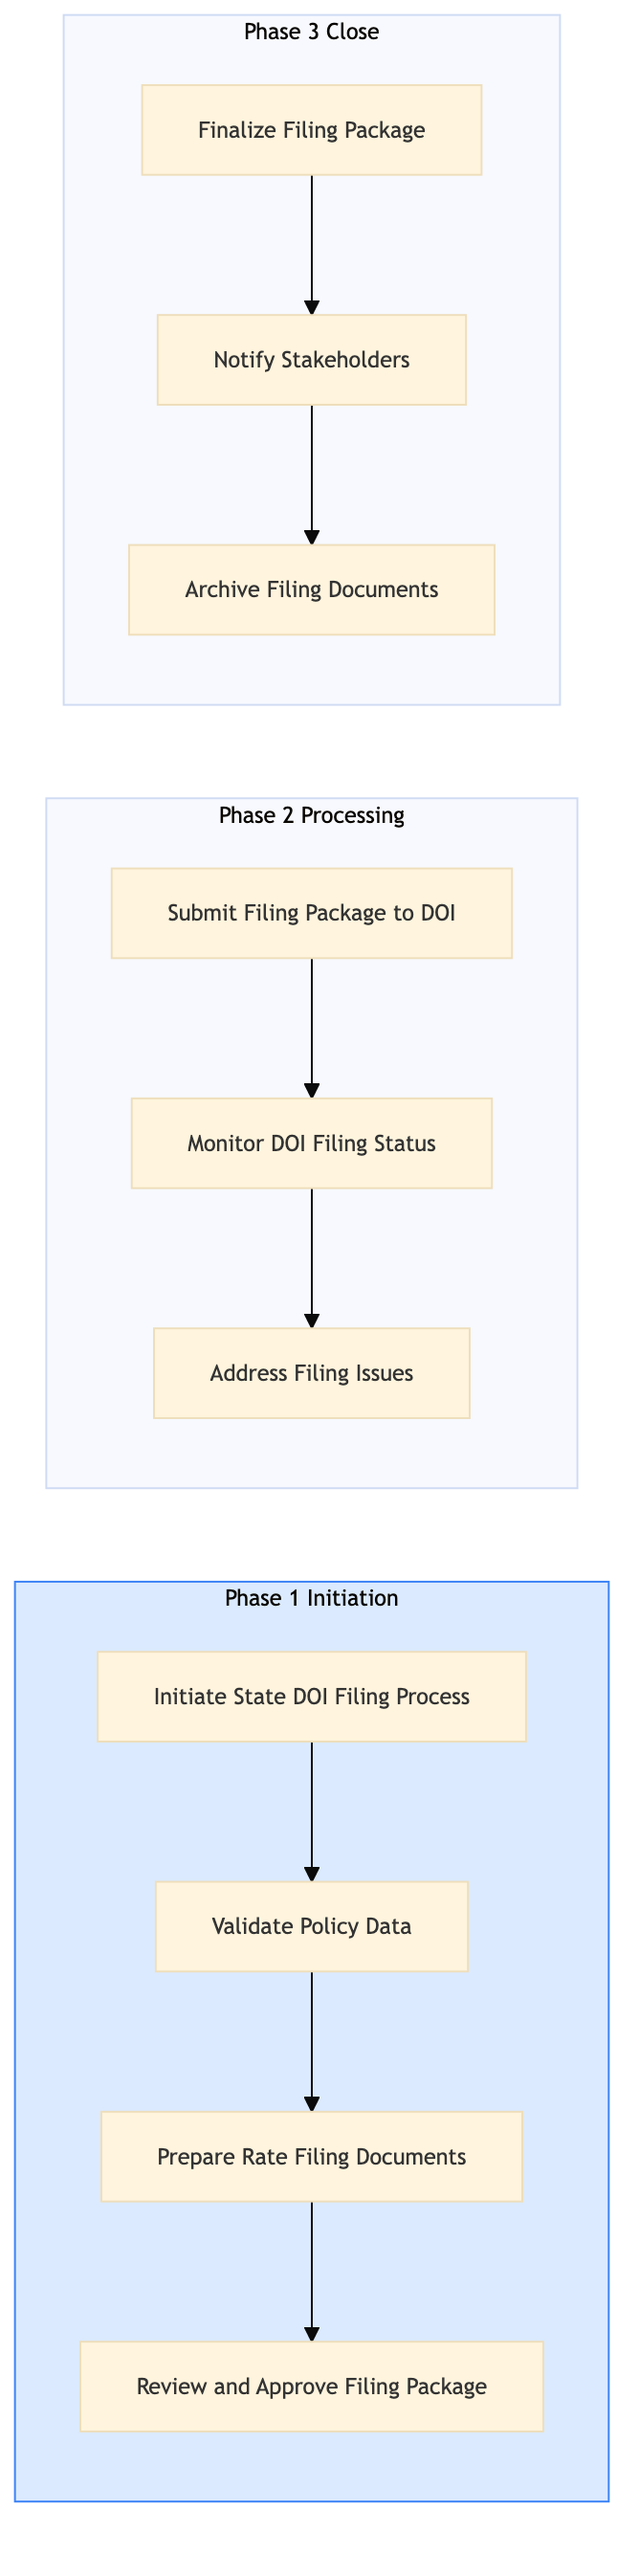
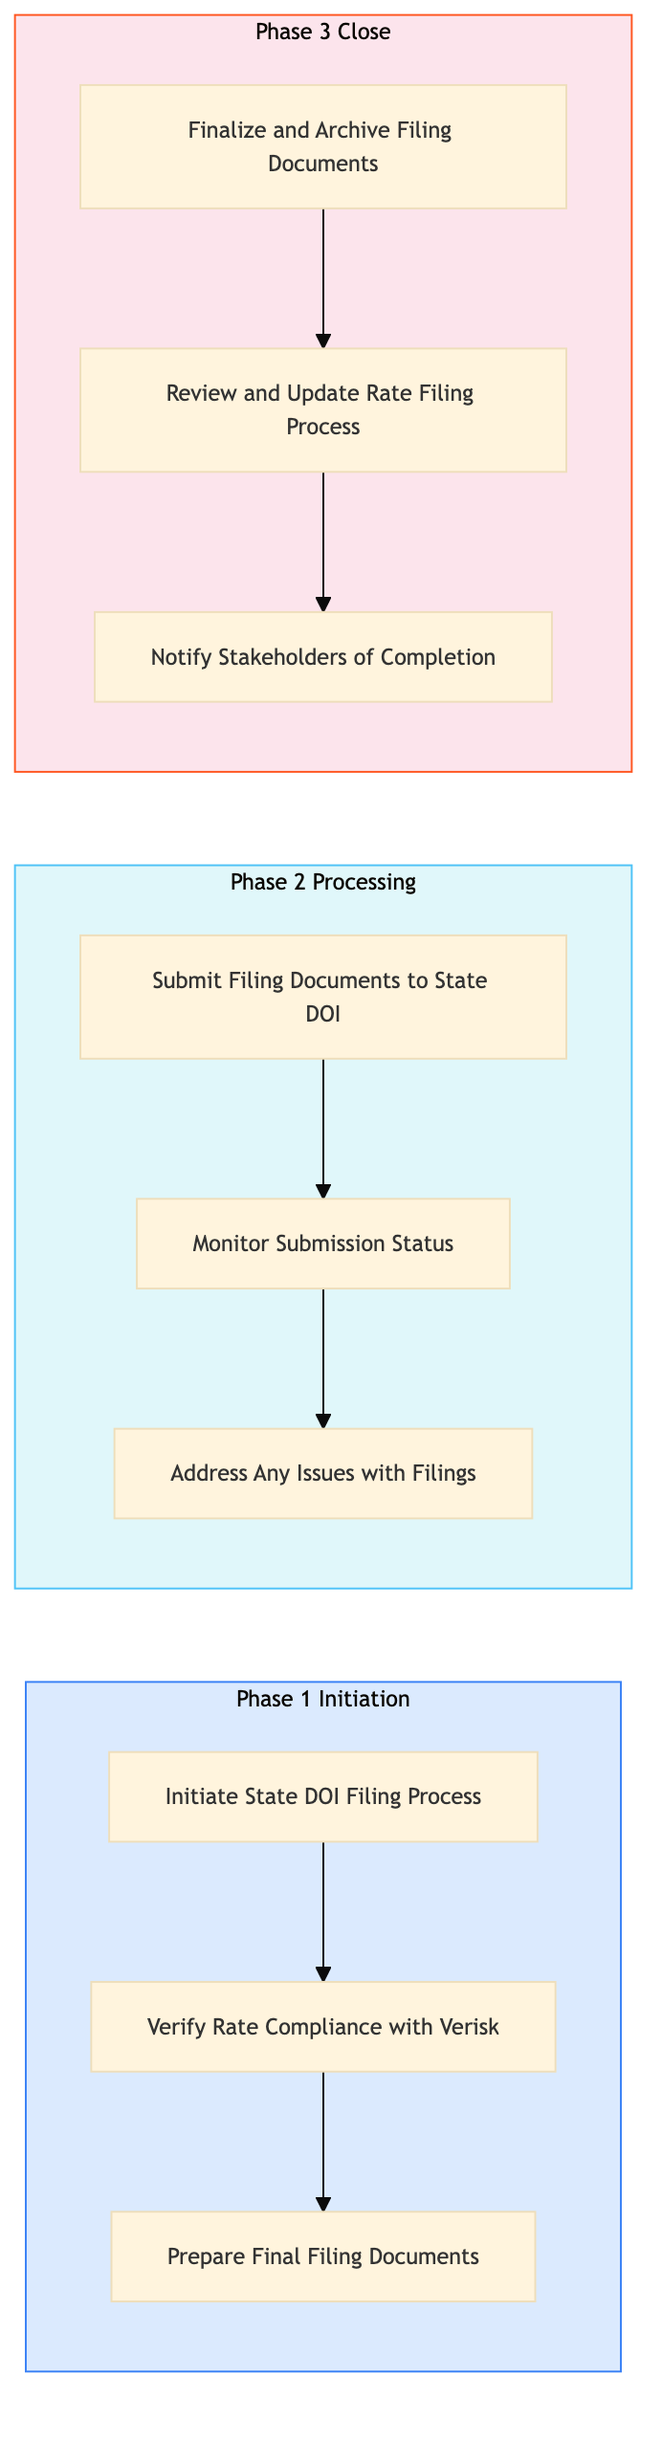
feat: add AAA-IN-PO-05 — State DOI Filing and Rate Filing Compliance

diff --git a/aaa-insurance/policy-administration/aaa-in-po-05.html b/aaa-insurance/policy-administration/aaa-in-po-05.html
@@ -23,40 +23,16 @@
     <div class="nav-l2-group">
       <a class="nav-l2-title" href="../../shared-membership/membership-enrolment/index.html">Membership Enrolment & Sales</a>
       <div class="nav-l3-list">
-        <a class="nav-l3" href="../../shared-membership/membership-enrolment/shared-mb-en-01.html">SHARED-MB-EN-01 &mdash; New Member Walk-In Enrolment (Branch)</a>
-        <a class="nav-l3" href="../../shared-membership/membership-enrolment/shared-mb-en-02.html">SHARED-MB-EN-02 &mdash; Online Membership Self-Enrolment (Web/Ap</a>
-        <a class="nav-l3" href="../../shared-membership/membership-enrolment/shared-mb-en-03.html">SHARED-MB-EN-03 &mdash; Phone Enrolment via Contact Centre</a>
-        <a class="nav-l3" href="../../shared-membership/membership-enrolment/shared-mb-en-04.html">SHARED-MB-EN-04 &mdash; Affiliate and Employer Group Enrolment</a>
-        <a class="nav-l3" href="../../shared-membership/membership-enrolment/shared-mb-en-05.html">SHARED-MB-EN-05 &mdash; Membership Tier Selection and Upsell</a>
-        <a class="nav-l3" href="../../shared-membership/membership-enrolment/shared-mb-en-06.html">SHARED-MB-EN-06 &mdash; Payment Processing and First-Year Billin</a>
-        <a class="nav-l3" href="../../shared-membership/membership-enrolment/shared-mb-en-07.html">SHARED-MB-EN-07 &mdash; Welcome Kit and Digital Card Issuance</a>
-        <a class="nav-l3" href="../../shared-membership/membership-enrolment/shared-mb-en-08.html">SHARED-MB-EN-08 &mdash; Duplicate Member Detection and Merge</a>
       </div>
     </div>
     <div class="nav-l2-group">
       <a class="nav-l2-title" href="../../shared-membership/membership-renewal/index.html">Membership Renewal & Retention</a>
       <div class="nav-l3-list">
-        <a class="nav-l3" href="../../shared-membership/membership-renewal/shared-mb-rn-01.html">SHARED-MB-RN-01 &mdash; Annual Renewal Notice Generation and Dis</a>
-        <a class="nav-l3" href="../../shared-membership/membership-renewal/shared-mb-rn-02.html">SHARED-MB-RN-02 &mdash; Auto-Renewal Processing (Credit Card on </a>
-        <a class="nav-l3" href="../../shared-membership/membership-renewal/shared-mb-rn-03.html">SHARED-MB-RN-03 &mdash; Lapsed Member Reinstatement Campaign</a>
-        <a class="nav-l3" href="../../shared-membership/membership-renewal/shared-mb-rn-04.html">SHARED-MB-RN-04 &mdash; Membership Upgrade and Tier Change Proce</a>
-        <a class="nav-l3" href="../../shared-membership/membership-renewal/shared-mb-rn-05.html">SHARED-MB-RN-05 &mdash; Associate and Household Member Add-On Pr</a>
-        <a class="nav-l3" href="../../shared-membership/membership-renewal/shared-mb-rn-06.html">SHARED-MB-RN-06 &mdash; Cancellation Request Handling and Save O</a>
-        <a class="nav-l3" href="../../shared-membership/membership-renewal/shared-mb-rn-07.html">SHARED-MB-RN-07 &mdash; Renewal Rate Review and Pricing Update</a>
-        <a class="nav-l3" href="../../shared-membership/membership-renewal/shared-mb-rn-08.html">SHARED-MB-RN-08 &mdash; Membership Winback Campaign (12-36 Month</a>
       </div>
     </div>
     <div class="nav-l2-group">
       <a class="nav-l2-title" href="../../shared-membership/member-services/index.html">Member Services & Benefits</a>
       <div class="nav-l3-list">
-        <a class="nav-l3" href="../../shared-membership/member-services/shared-mb-sv-01.html">SHARED-MB-SV-01 &mdash; Member Discount Partner Redemption</a>
-        <a class="nav-l3" href="../../shared-membership/member-services/shared-mb-sv-02.html">SHARED-MB-SV-02 &mdash; Passport Photo Service Delivery (Branch)</a>
-        <a class="nav-l3" href="../../shared-membership/member-services/shared-mb-sv-03.html">SHARED-MB-SV-03 &mdash; International Driving Permit (IDP) Proce</a>
-        <a class="nav-l3" href="../../shared-membership/member-services/shared-mb-sv-04.html">SHARED-MB-SV-04 &mdash; Notary and Document Authentication Servi</a>
-        <a class="nav-l3" href="../../shared-membership/member-services/shared-mb-sv-05.html">SHARED-MB-SV-05 &mdash; Member Portal Profile and Preferences Ma</a>
-        <a class="nav-l3" href="../../shared-membership/member-services/shared-mb-sv-06.html">SHARED-MB-SV-06 &mdash; Lost and Stolen Membership Card Replacem</a>
-        <a class="nav-l3" href="../../shared-membership/member-services/shared-mb-sv-07.html">SHARED-MB-SV-07 &mdash; Member Data Privacy Request (CCPA and PI</a>
-        <a class="nav-l3" href="../../shared-membership/member-services/shared-mb-sv-08.html">SHARED-MB-SV-08 &mdash; Member Satisfaction Survey and NPS Track</a>
       </div>
     </div>
   </div>
@@ -292,7 +268,7 @@
           <span class="pid-badge org-badge-aaa">AAA</span>
           AAA-IN-PO-05 &mdash; State DOI Filing and Rate Filing Compliance
         </h1>
-        <p>This process ensures that AAA Northeast complies with state Department of Insurance (DOI) regulations and rate filings. It involves collecting, validating, and submitting necessary data to the DOI using various systems.</p>
+        <p>This process ensures that AAA Northeast complies with state DOI filing and rate filing requirements using Guidewire Cloud, Sabre, Verisk, Salesforce, and USD systems.</p>
       </div>
 
       <!-- BPMN Diagram -->
@@ -318,10 +294,10 @@
             <tr><th>L1 Domain</th><td>AAA Insurance</td></tr>
             <tr><th>L2 Process</th><td>Policy Administration</td></tr>
             <tr><th>L3 Name</th><td>State DOI Filing and Rate Filing Compliance</td></tr>
-            <tr><th>Trigger</th><td>Annual renewal cycle or changes in insurance rates</td></tr>
-            <tr><th>Outcome</th><td>Successful submission of required documents and compliance with state DOI regulations, ensuring AAA Northeast maintains its license and rates are approved.</td></tr>
-            <tr><th>Org Notes</th><td>AAA Northeast focuses on cloud-based solutions like Guidewire Cloud for policy administration, whereas CAA SCO uses a mix of on-premise and cloud systems. Additionally, AAA Northeast integrates with Sabre GDS for travel services, while CAA SCO uses Galileo GDS.</td></tr>
-            <tr><th>Systems</th><td><span class="sys-tag guidewire">Guidewire PolicyCenter</span> <span class="sys-tag verisk">Verisk ISO rating</span> <span class="sys-tag salesforce">Salesforce</span> <span class="sys-tag sabre">Sabre GDS</span> <span class="sys-tag snowflake">Snowflake</span></td></tr>
+            <tr><th>Trigger</th><td>Annual renewal or policy change requiring new rates or filings</td></tr>
+            <tr><th>Outcome</th><td>Successful submission of all required state DOI filings and rate filings within regulatory deadlines.</td></tr>
+            <tr><th>Org Notes</th><td>AAA Northeast has specific processes for handling state DOI filings that differ from CAA due to regional regulations and local market requirements.</td></tr>
+            <tr><th>Systems</th><td><span class="sys-tag guidewire">Guidewire PolicyCenter</span> <span class="sys-tag verisk">Verisk ISO rating</span> <span class="sys-tag sabre">Sabre GDS</span> <span class="sys-tag salesforce">Salesforce</span> <span class="sys-tag sys-generic">USD</span></td></tr>
           </table>
         </div>
       </div>
@@ -343,120 +319,108 @@
         <tr>
           <td class="step-num">1.1</td>
           <td>Initiate State DOI Filing Process</td>
-          <td>State Compliance Officer</td>
+          <td>Policy Administrator</td>
           <td><span class="sys-tag guidewire">Guidewire PolicyCenter</span></td>
-          <td>Policy data and rate changes</td>
-          <td>Filing package</td>
-          <td>Time to initiate filing within 1 week of trigger</td>
-          <td>Data validation issues</td>
+          <td>New policy data or rate changes</td>
+          <td>Filing checklist and initial draft of filings</td>
+          <td>Time to initiate filing process < 24 hours</td>
+          <td>Late initiation due to incomplete data</td>
           <td>N</td>
           <td><span class="exception-y">Y</span></td>
         </tr>
         <tr>
           <td class="step-num">1.2</td>
-          <td>Validate Policy Data</td>
-          <td>Policy Administrator</td>
-          <td><span class="sys-tag guidewire">Guidewire PolicyCenter</span></td>
-          <td>Filing package</td>
-          <td>Validated policy data</td>
-          <td>Data validation accuracy above 98%</td>
-          <td>Complexity in handling multiple states' regulations</td>
-          <td>N</td>
-          <td><span class="exception-y">Y</span></td>
-        </tr>
-        <tr>
-          <td class="step-num">1.3</td>
-          <td>Prepare Rate Filing Documents</td>
+          <td>Verify Rate Compliance with Verisk</td>
           <td>Rate Analyst</td>
           <td><span class="sys-tag verisk">Verisk ISO rating</span></td>
-          <td>Validated policy data</td>
-          <td>Rate filing documents</td>
-          <td>Completion of rate filings within 2 weeks</td>
-          <td>Integration issues with Verisk</td>
-          <td>N</td>
-          <td><span class="exception-y">Y</span></td>
-        </tr>
-        <tr>
-          <td class="step-num">1.4</td>
-          <td>Review and Approve Filing Package</td>
-          <td>State Compliance Officer</td>
-          <td><span class="sys-tag salesforce">Salesforce</span></td>
-          <td>Rate filing documents</td>
-          <td>Approved filing package</td>
-          <td>Approval time within 3 days</td>
-          <td>Delays in internal approvals</td>
+          <td>Filing checklist and initial draft of filings</td>
+          <td>Compliance report</td>
+          <td>Time to receive compliance report < 48 hours</td>
+          <td>Non-compliant rates leading to delays</td>
           <td><span class="decision-y">Y</span></td>
           <td>N</td>
         </tr>
         <tr>
+          <td class="step-num">1.3</td>
+          <td>Prepare Final Filing Documents</td>
+          <td>Policy Administrator</td>
+          <td><span class="sys-tag guidewire">Guidewire PolicyCenter, Salesforce</span></td>
+          <td>Compliance report and initial draft of filings</td>
+          <td>Final filing documents</td>
+          <td>Time to prepare final documents < 3 days</td>
+          <td>Errors in final documents causing rework</td>
+          <td>N</td>
+          <td><span class="exception-y">Y</span></td>
+        </tr>
+        <tr>
           <td class="step-num">2.1</td>
-          <td>Submit Filing Package to DOI</td>
-          <td>State Compliance Officer</td>
-          <td><span class="sys-tag sabre">Sabre GDS</span></td>
-          <td>Approved filing package</td>
-          <td>Submission confirmation</td>
-          <td>Successful submission rate 100%</td>
-          <td>Technical issues with Sabre</td>
+          <td>Submit Filing Documents to State DOI</td>
+          <td>Legal Counsel</td>
+          <td><span class="sys-tag salesforce">Sabre GDS, Salesforce</span></td>
+          <td>Final filing documents</td>
+          <td>Confirmation of submission</td>
+          <td>Time to submit filings < 1 day</td>
+          <td>Submission errors leading to delays</td>
           <td>N</td>
           <td><span class="exception-y">Y</span></td>
         </tr>
         <tr>
           <td class="step-num">2.2</td>
-          <td>Monitor DOI Filing Status</td>
-          <td>State Compliance Officer</td>
-          <td><span class="sys-tag guidewire">Guidewire PolicyCenter</span></td>
-          <td>Submission confirmation</td>
-          <td>Filing status report</td>
-          <td>Status check frequency every 3 days</td>
-          <td>Inconsistent DOI response times</td>
+          <td>Monitor Submission Status</td>
+          <td>Policy Administrator</td>
+          <td><span class="sys-tag salesforce">Salesforce, USD</span></td>
+          <td>Confirmation of submission</td>
+          <td>Status report</td>
+          <td>Time to receive status update < 1 week</td>
+          <td>Delayed status updates causing confusion</td>
           <td><span class="decision-y">Y</span></td>
           <td>N</td>
         </tr>
         <tr>
           <td class="step-num">2.3</td>
-          <td>Address Filing Issues</td>
-          <td>Policy Administrator</td>
-          <td><span class="sys-tag guidewire">Guidewire PolicyCenter</span></td>
-          <td>Filing status report</td>
-          <td>Updated filing package</td>
-          <td>Issue resolution time within 5 days</td>
-          <td>Complexity in resolving DOI issues</td>
-          <td><span class="decision-y">Y</span></td>
+          <td>Address Any Issues with Filings</td>
+          <td>Legal Counsel, Policy Administrator</td>
+          <td><span class="sys-tag guidewire">Guidewire PolicyCenter, Salesforce</span></td>
+          <td>Status report and any issues identified</td>
+          <td>Corrected filing documents</td>
+          <td>Time to resolve issues < 2 weeks</td>
+          <td>Complex issues requiring extensive review</td>
           <td>N</td>
+          <td><span class="exception-y">Y</span></td>
         </tr>
         <tr>
           <td class="step-num">3.1</td>
-          <td>Finalize Filing Package</td>
-          <td>State Compliance Officer</td>
-          <td><span class="sys-tag guidewire">Guidewire PolicyCenter</span></td>
-          <td>Updated filing package</td>
-          <td>Finalized filing package</td>
-          <td>Completion of finalization within 2 days</td>
-          <td>Data inconsistencies</td>
+          <td>Finalize and Archive Filing Documents</td>
+          <td>Policy Administrator</td>
+          <td><span class="sys-tag guidewire">Guidewire PolicyCenter, Salesforce</span></td>
+          <td>Corrected filing documents</td>
+          <td>Archived filing documents</td>
+          <td>Time to archive documents < 1 day</td>
+          <td>Loss of critical documents</td>
           <td>N</td>
           <td><span class="exception-y">Y</span></td>
         </tr>
         <tr>
           <td class="step-num">3.2</td>
-          <td>Notify Stakeholders</td>
-          <td>State Compliance Officer</td>
-          <td><span class="sys-tag salesforce">Salesforce</span></td>
-          <td>Finalized filing package</td>
-          <td>Stakeholder notification</td>
-          <td>Notification time within 1 day of finalization</td>
-          <td>Communication delays</td>
+          <td>Review and Update Rate Filing Process</td>
+          <td>Rate Analyst, Policy Administrator</td>
+          <td><span class="sys-tag guidewire">Guidewire PolicyCenter, Salesforce</span></td>
+          <td>Archived filing documents and process feedback</td>
+          <td>Updated rate filing guidelines</td>
+          <td>Time to update guidelines < 1 month</td>
+          <td>Outdated guidelines leading to inefficiencies</td>
           <td>N</td>
           <td><span class="exception-y">Y</span></td>
         </tr>
         <tr>
           <td class="step-num">3.3</td>
-          <td>Archive Filing Documents</td>
-          <td>Policy Administrator</td>
-          <td><span class="sys-tag snowflake">Snowflake</span></td>
-          <td>Finalized filing package</td>
-          <td>Archived documents</td>
-          <td>100% document archiving rate</td>
-          <td>Storage capacity issues</td>
+          <td>Notify Stakeholders of Completion</td>
+          <td>Policy Administrator, Legal Counsel</td>
+          <td><span class="sys-tag salesforce">Salesforce, Email</span></td>
+          <td>Updated rate filing guidelines</td>
+          <td>Stakeholder notification</td>
+          <td>Time to notify stakeholders < 1 day</td>
+          <td>Delayed notifications causing confusion</td>
           <td>N</td>
           <td><span class="exception-y">Y</span></td>
         </tr>
@@ -471,9 +435,9 @@
         <div class="card-header">&#x1F4CA; KPIs &amp; Risk Register</div>
         <div class="card-body">
           <p class="mb-8"><strong>KPIs</strong></p>
-          <div class="kpi-list mb-8"><span class="kpi-pill">Time to initiate filing within 1 week of trigger</span> <span class="kpi-pill">Data validation accuracy above 98%</span> <span class="kpi-pill">Completion of rate filings within 2 weeks</span> <span class="kpi-pill">Approval time within 3 days</span> <span class="kpi-pill">Successful submission rate 100%</span></div>
+          <div class="kpi-list mb-8"><span class="kpi-pill">Time to initiate filing process < 24 hours</span> <span class="kpi-pill">Time to receive compliance report < 48 hours</span> <span class="kpi-pill">Time to prepare final documents < 3 days</span> <span class="kpi-pill">Time to submit filings < 1 day</span> <span class="kpi-pill">Time to resolve issues < 2 weeks</span> <span class="kpi-pill">Time to archive documents < 1 day</span> <span class="kpi-pill">Time to update guidelines < 1 month</span> <span class="kpi-pill">Time to notify stakeholders < 1 day</span></div>
           <p class="mb-8" style="margin-top:16px"><strong>Key Risks</strong></p>
-          <div class="kpi-list"><span class="risk-pill">Complexity in handling multiple states' regulations</span> <span class="risk-pill">Integration issues with Verisk</span> <span class="risk-pill">Technical issues with Sabre</span> <span class="risk-pill">Inconsistent DOI response times</span> <span class="risk-pill">Data inconsistencies</span></div>
+          <div class="kpi-list"><span class="risk-pill">Non-compliant rates leading to delays</span> <span class="risk-pill">Submission errors leading to delays</span> <span class="risk-pill">Complex issues requiring extensive review</span> <span class="risk-pill">Loss of critical documents</span> <span class="risk-pill">Outdated guidelines leading to inefficiencies</span> <span class="risk-pill">Delayed notifications causing confusion</span></div>
         </div>
       </div>
 

diff --git a/aaa-insurance/policy-administration/index.html b/aaa-insurance/policy-administration/index.html
@@ -59,6 +59,7 @@
         <a class="nav-l3" href="../../aaa-insurance/policy-administration/aaa-in-po-01.html">AAA-IN-PO-01 &mdash; New Policy Issuance and Document Generat</a>
         <a class="nav-l3" href="../../aaa-insurance/policy-administration/aaa-in-po-02.html">AAA-IN-PO-02 &mdash; Policy Endorsement and Mid-Term Change P</a>
         <a class="nav-l3" href="../../aaa-insurance/policy-administration/aaa-in-po-03.html">AAA-IN-PO-03 &mdash; Policy Renewal Processing and Rate Refre</a>
+        <a class="nav-l3" href="../../aaa-insurance/policy-administration/aaa-in-po-04.html">AAA-IN-PO-04 &mdash; Non-Renewal and Cancellation Processing</a>
       </div>
     </div>
     <div class="nav-l2-group">
@@ -260,7 +261,7 @@
           <a href="../index.html">AAA Insurance</a>
         </div>
         <h1>🛡 Policy Administration</h1>
-        <p>3 of 8 processes complete</p>
+        <p>4 of 8 processes complete</p>
       </div>
       <div class="card">
         <div class="card-header">Process List</div>
@@ -270,7 +271,7 @@
             <tbody><tr><td><a href="aaa-in-po-01.html">AAA-IN-PO-01</a></td><td>New Policy Issuance and Document Generation</td><td><span style="color:#16a34a;font-weight:700">&#x2705; Complete</span></td></tr>
 <tr><td><a href="aaa-in-po-02.html">AAA-IN-PO-02</a></td><td>Policy Endorsement and Mid-Term Change Processing</td><td><span style="color:#16a34a;font-weight:700">&#x2705; Complete</span></td></tr>
 <tr><td><a href="aaa-in-po-03.html">AAA-IN-PO-03</a></td><td>Policy Renewal Processing and Rate Refresh</td><td><span style="color:#16a34a;font-weight:700">&#x2705; Complete</span></td></tr>
-<tr><td>AAA-IN-PO-04</td><td>Non-Renewal and Cancellation Processing</td><td><span style="color:#94a3b8">&#x23F3; Queued</span></td></tr>
+<tr><td><a href="aaa-in-po-04.html">AAA-IN-PO-04</a></td><td>Non-Renewal and Cancellation Processing</td><td><span style="color:#16a34a;font-weight:700">&#x2705; Complete</span></td></tr>
 <tr><td>AAA-IN-PO-05</td><td>State DOI Filing and Rate Filing Compliance</td><td><span style="color:#94a3b8">&#x23F3; Queued</span></td></tr>
 <tr><td>AAA-IN-PO-06</td><td>Lienholder and Mortgagee Certificate Issuance</td><td><span style="color:#94a3b8">&#x23F3; Queued</span></td></tr>
 <tr><td>AAA-IN-PO-07</td><td>Reinsurance Cession and Treaty Allocation</td><td><span style="color:#94a3b8">&#x23F3; Queued</span></td></tr>

diff --git a/index.html b/index.html
@@ -59,6 +59,7 @@
         <a class="nav-l3" href="aaa-insurance/policy-administration/aaa-in-po-01.html">AAA-IN-PO-01 &mdash; New Policy Issuance and Document Generat</a>
         <a class="nav-l3" href="aaa-insurance/policy-administration/aaa-in-po-02.html">AAA-IN-PO-02 &mdash; Policy Endorsement and Mid-Term Change P</a>
         <a class="nav-l3" href="aaa-insurance/policy-administration/aaa-in-po-03.html">AAA-IN-PO-03 &mdash; Policy Renewal Processing and Rate Refre</a>
+        <a class="nav-l3" href="aaa-insurance/policy-administration/aaa-in-po-04.html">AAA-IN-PO-04 &mdash; Non-Renewal and Cancellation Processing</a>
       </div>
     </div>
     <div class="nav-l2-group">
@@ -260,9 +261,9 @@
       </div>
 
       <div class="stats-bar">
-        <div class="stat-card"><div class="stat-num">13</div><div class="stat-label">Processes Complete</div></div>
+        <div class="stat-card"><div class="stat-num">14</div><div class="stat-label">Processes Complete</div></div>
         <div class="stat-card"><div class="stat-num">268</div><div class="stat-label">Total Processes</div></div>
-        <div class="stat-card"><div class="stat-num">13</div><div class="stat-label">AAA Complete</div></div>
+        <div class="stat-card"><div class="stat-num">14</div><div class="stat-label">AAA Complete</div></div>
         <div class="stat-card"><div class="stat-num caa-red">0</div><div class="stat-label">CAA Complete</div></div>
         <div class="stat-card"><div class="stat-num">0</div><div class="stat-label">Shared Complete</div></div>
       </div>
@@ -282,7 +283,7 @@
         <span class="nav-org-dot aaa" style="display:inline-block;margin-right:4px"></span>
         AAA
       </p>
-      <p class="card-count">13 / 34 processes complete</p>
+      <p class="card-count">14 / 34 processes complete</p>
     </div>
     <div class="domain-card org-caa">
       <h3><a href="caa-insurance/index.html">🍁 CAA Insurance (Ontario)</a></h3>

diff --git a/aaa-insurance/index.html b/aaa-insurance/index.html
@@ -59,6 +59,7 @@
         <a class="nav-l3" href="../aaa-insurance/policy-administration/aaa-in-po-01.html">AAA-IN-PO-01 &mdash; New Policy Issuance and Document Generat</a>
         <a class="nav-l3" href="../aaa-insurance/policy-administration/aaa-in-po-02.html">AAA-IN-PO-02 &mdash; Policy Endorsement and Mid-Term Change P</a>
         <a class="nav-l3" href="../aaa-insurance/policy-administration/aaa-in-po-03.html">AAA-IN-PO-03 &mdash; Policy Renewal Processing and Rate Refre</a>
+        <a class="nav-l3" href="../aaa-insurance/policy-administration/aaa-in-po-04.html">AAA-IN-PO-04 &mdash; Non-Renewal and Cancellation Processing</a>
       </div>
     </div>
     <div class="nav-l2-group">
@@ -257,7 +258,7 @@
       <div class="page-header">
         <div class="breadcrumb"><a href="../index.html">Home</a></div>
         <h1>🛡 AAA Insurance</h1>
-        <p>13 of 34 processes complete across 4 process groups</p>
+        <p>14 of 34 processes complete across 4 process groups</p>
       </div>
       <div class="domain-grid">    <div class="domain-card org-aaa">
       <h3><a href="insurance-quoting/index.html">Quoting & Underwriting</a></h3>
@@ -265,7 +266,7 @@
     </div>
     <div class="domain-card org-aaa">
       <h3><a href="policy-administration/index.html">Policy Administration</a></h3>
-      <p class="card-meta">3/8 processes complete</p>
+      <p class="card-meta">4/8 processes complete</p>
     </div>
     <div class="domain-card org-aaa">
       <h3><a href="insurance-billing/index.html">Billing & Premium Management</a></h3>
